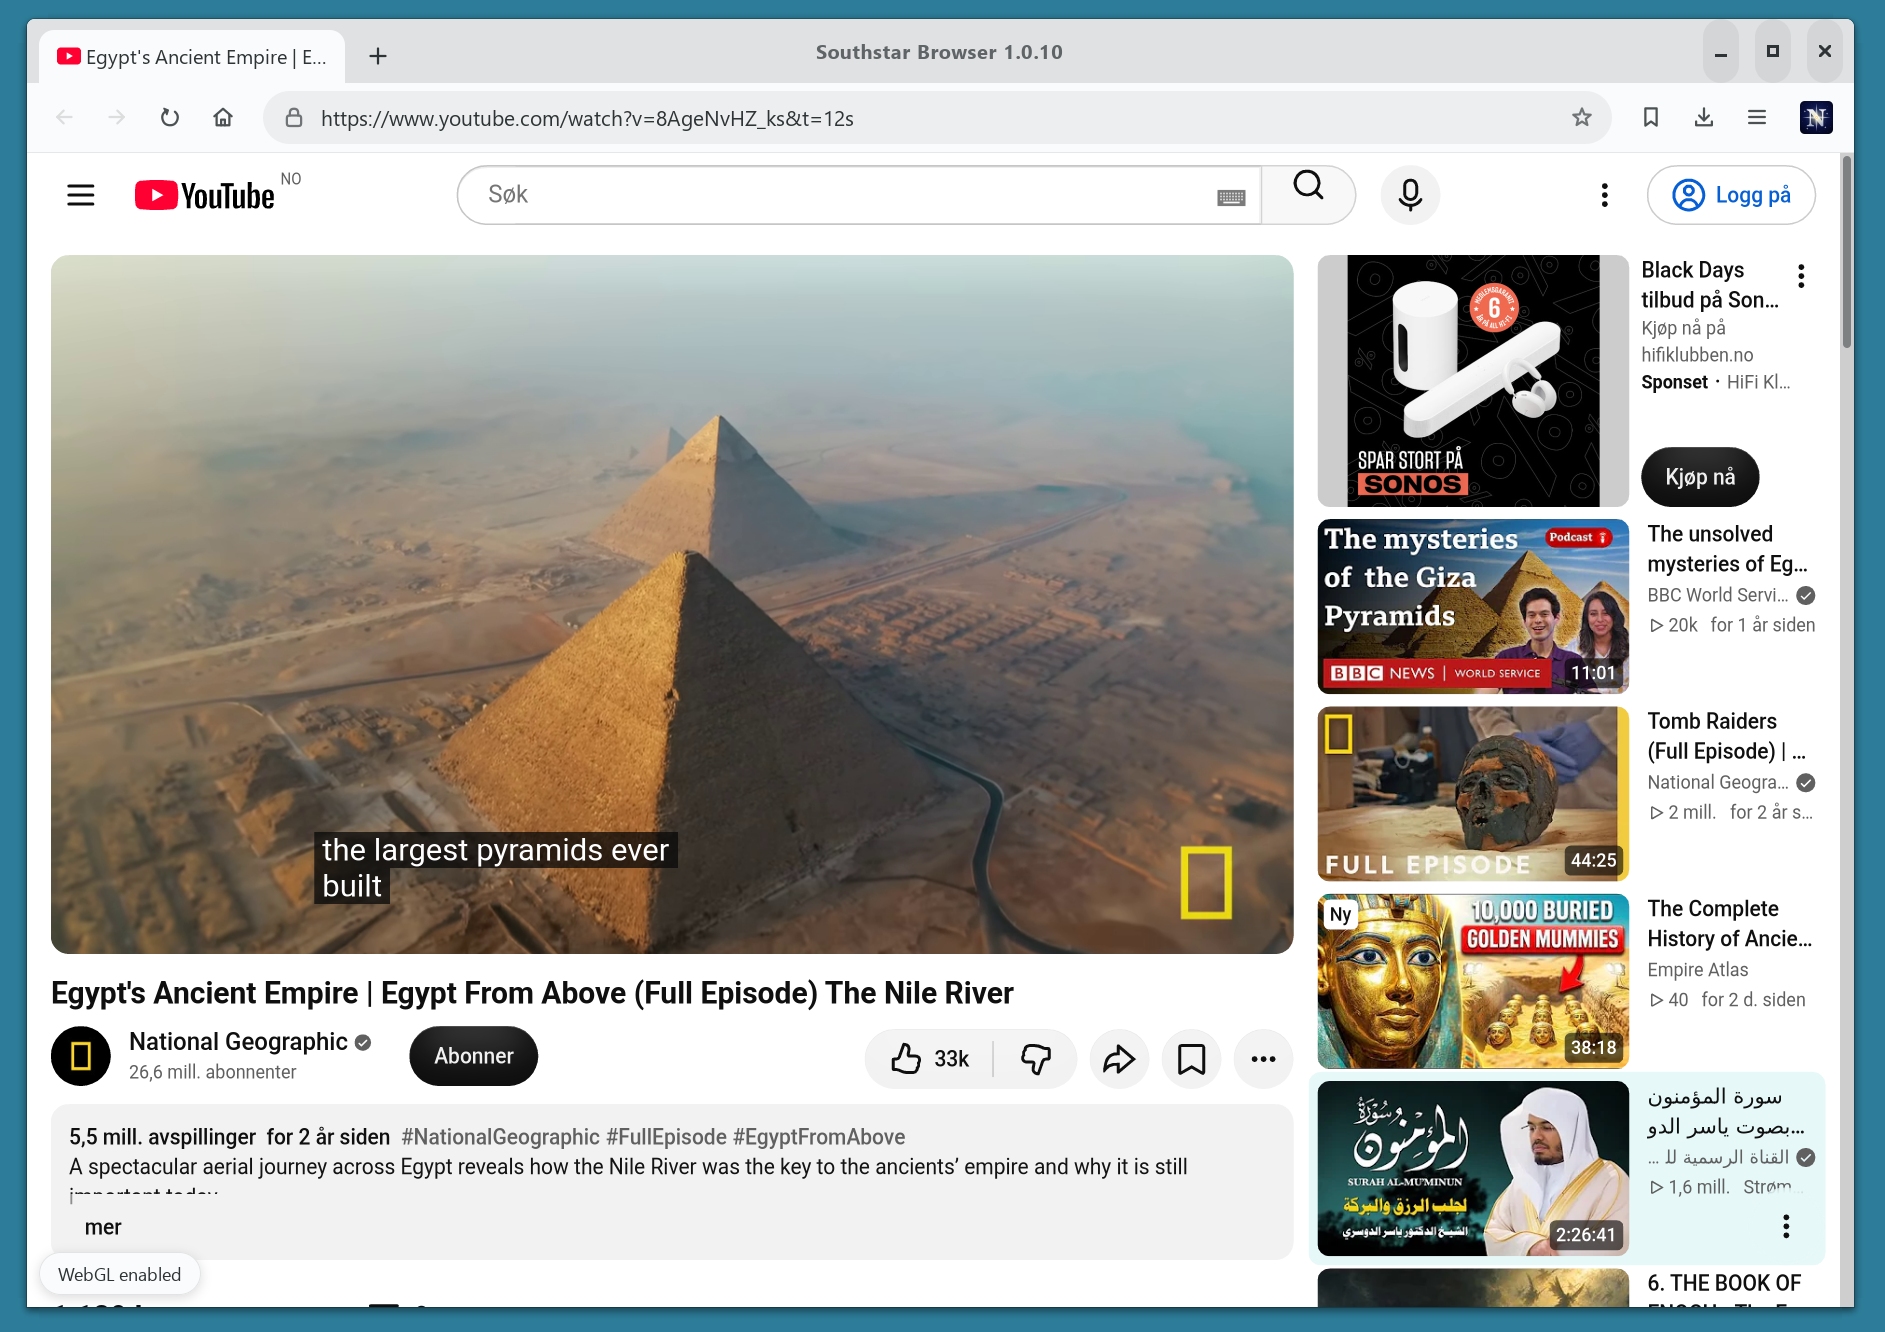
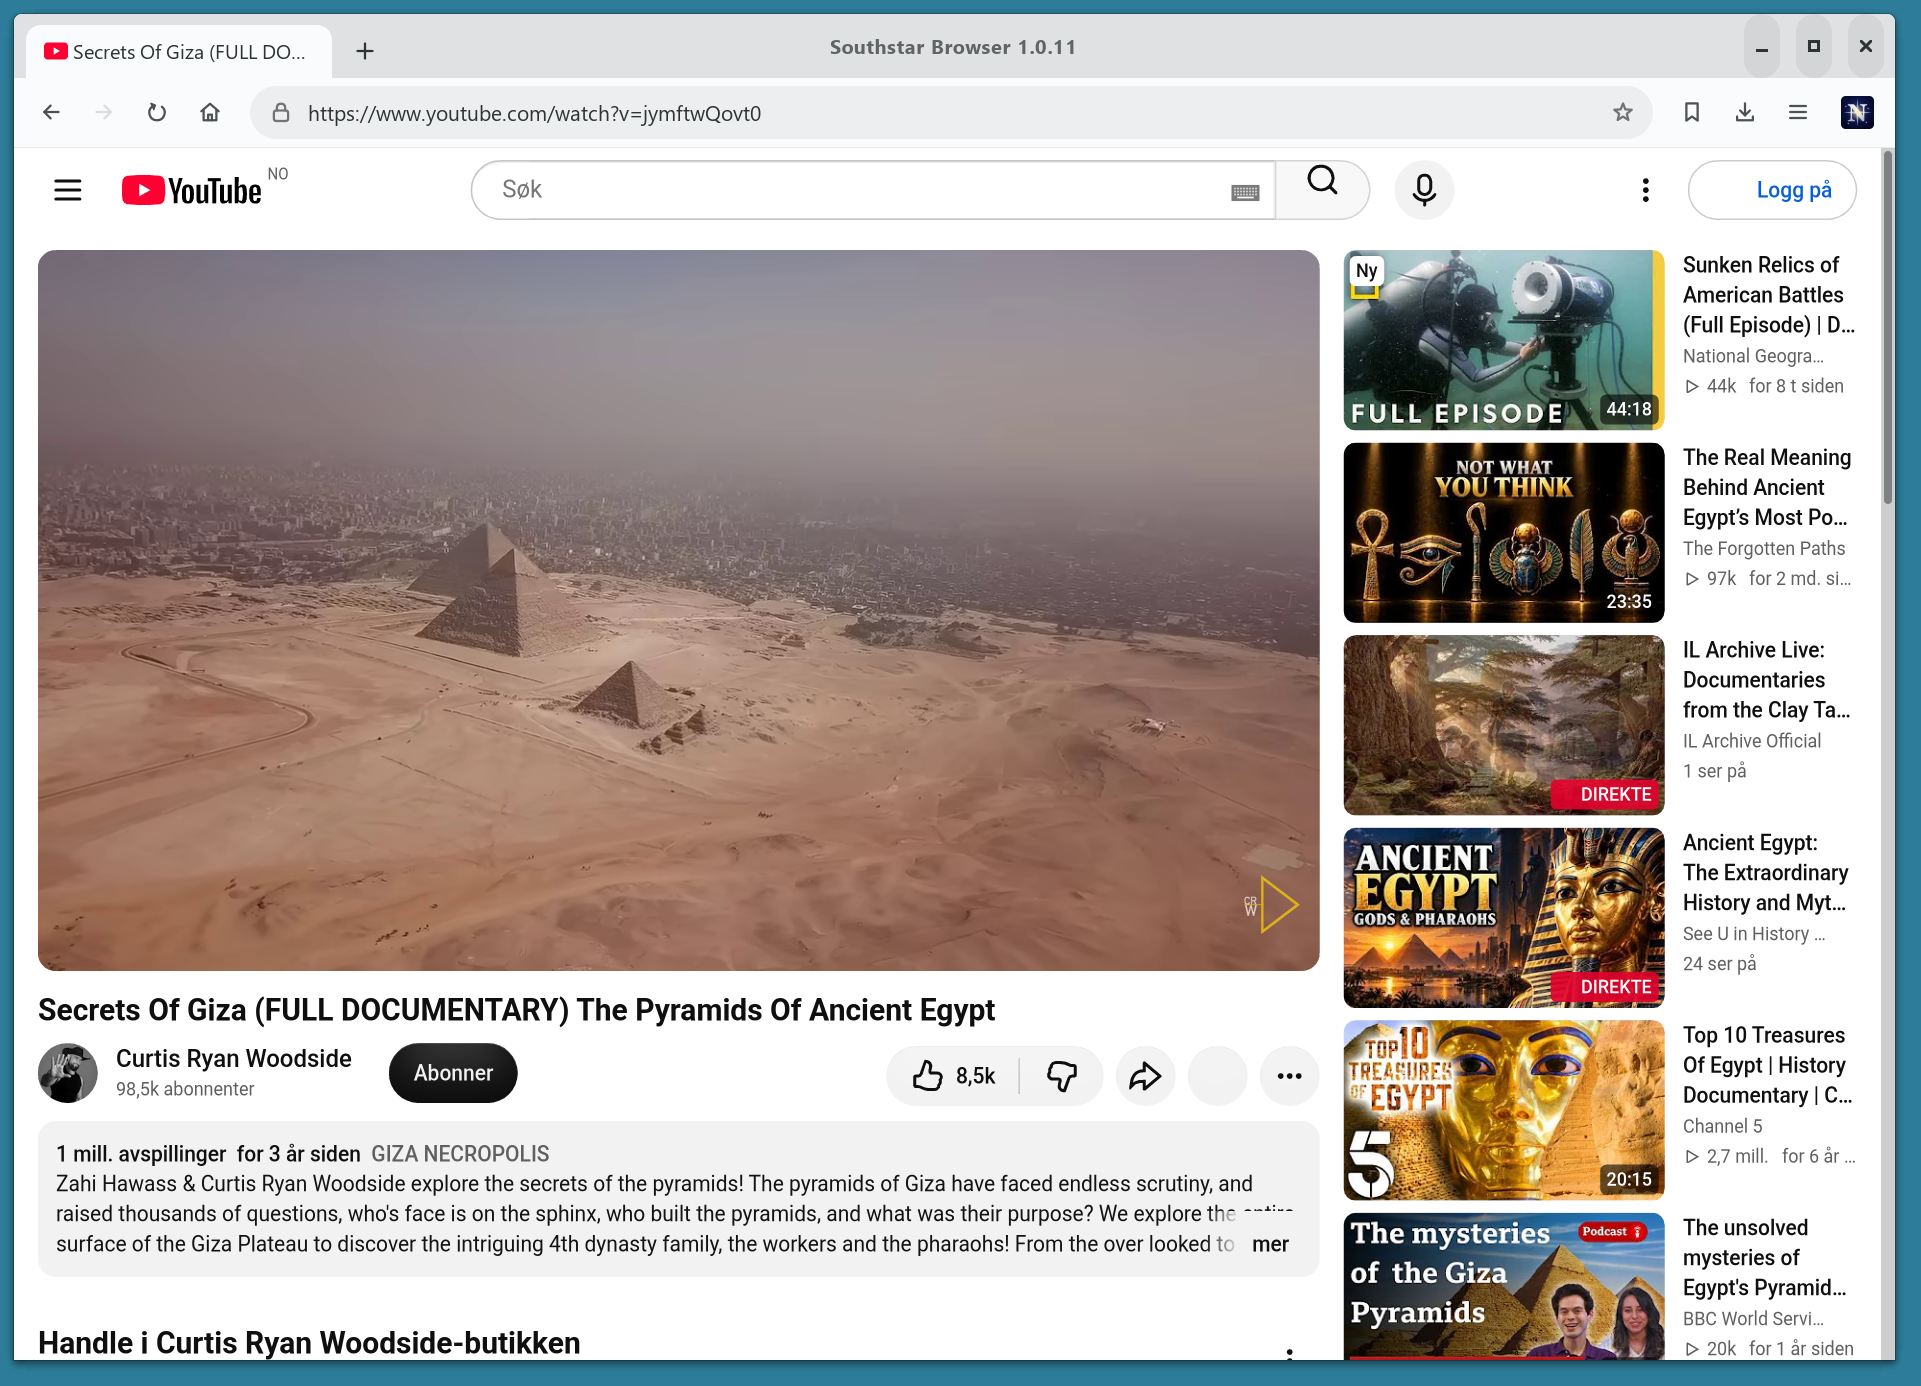
Update the README screenshot to Southstar 1.0.11 on YouTube
The screenshot shows Southstar 1.0.11 on a YouTube watch page; the
README's alt text, which still described Duck.ai, now says so.

diff --git a/README.md b/README.md
@@ -16,7 +16,7 @@ and JavaScript standards, written in Rust and started in 2026.
 **Windows:** install Southstar Browser from the
 [Microsoft Store](https://apps.microsoft.com/detail/9N9J5HRNJ7RQ).
 
-![Southstar Browser showing Duck.ai](docs/screenshot.png)
+![Southstar Browser 1.0.11 showing a YouTube video page](docs/screenshot.png)
 
 **JavaScript engine:** Southstar runs page JavaScript on
 [Boa](https://github.com/boa-dev/boa), a JavaScript engine written in Rust
